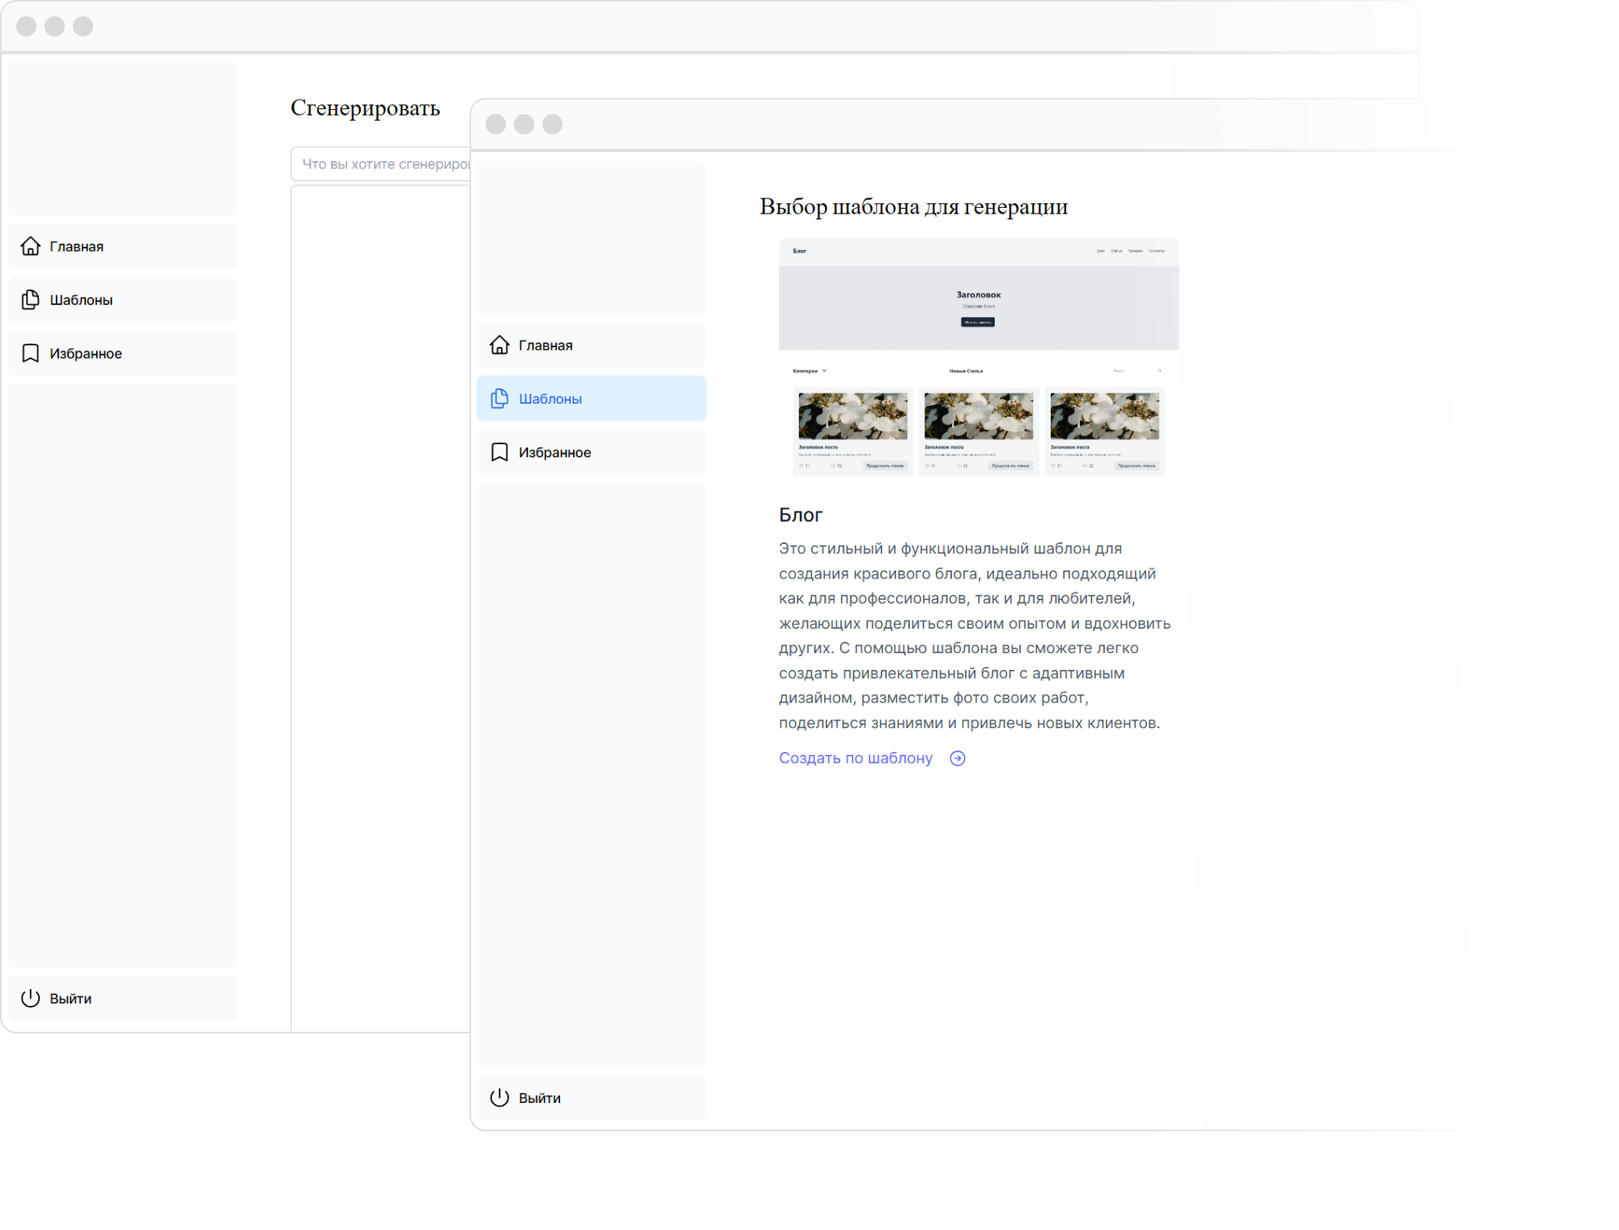
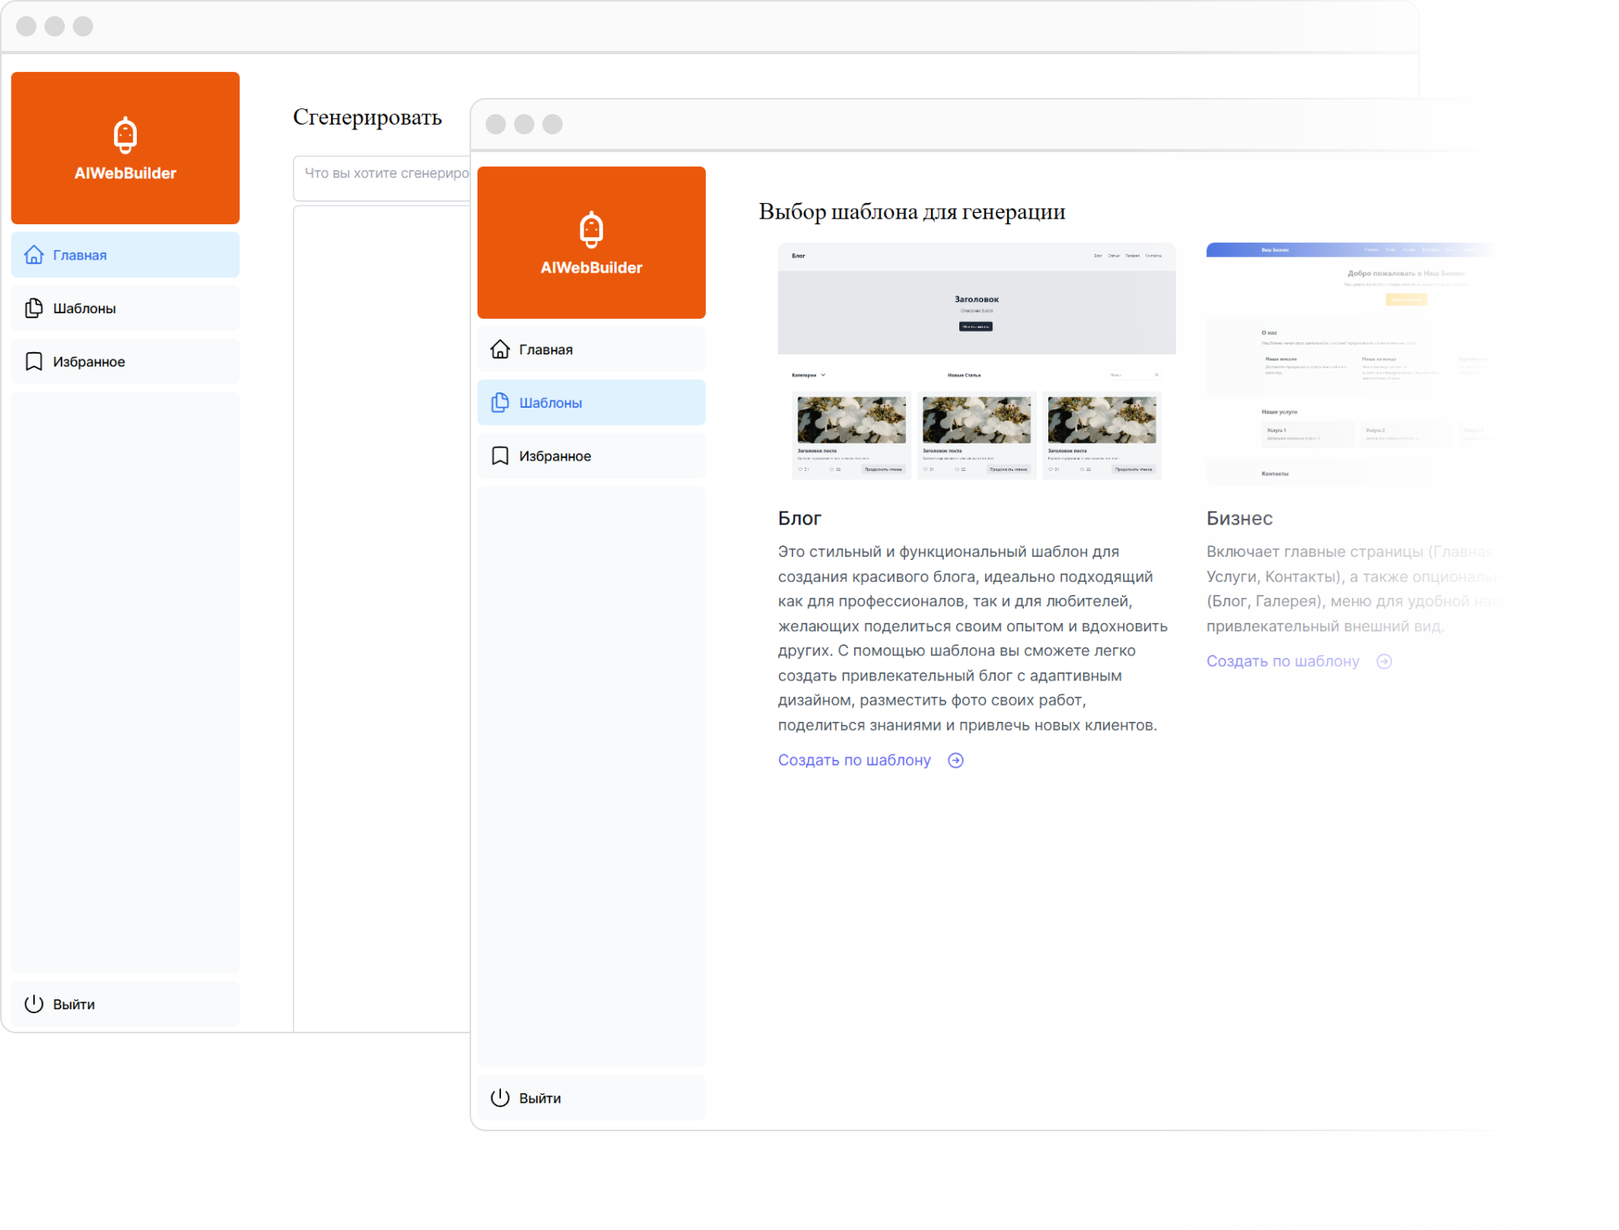
Add new image

diff --git a/app/ui/template/business.html b/app/ui/template/business.html
@@ -1,0 +1,185 @@
+<!DOCTYPE html>
+<html lang="ru">
+<head>
+    <meta charset="UTF-8">
+    <meta name="viewport" content="width=device-width, initial-scale=1.0">
+    <title>Бизнес Лендлинг Пейдж</title>
+    <link href="https://cdn.jsdelivr.net/npm/tailwindcss@2.2.19/dist/tailwind.min.css" rel="stylesheet">
+</head>
+<body class="font-sans bg-gray-100">
+
+    <!-- Navbar -->
+    <nav class="bg-blue-700 shadow-lg">
+        <div class="max-w-7xl mx-auto px-4 sm:px-6 lg:px-8">
+            <div class="flex justify-between items-center h-16">
+                <div class="flex-shrink-0">
+                    <a href="#" class="text-xl font-bold text-white">Ваш Бизнес</a>
+                </div>
+                <div class="hidden md:flex md:items-center md:justify-center md:flex-1">
+                    <a href="#home" class="text-white hover:text-yellow-400 mx-4">Главная</a>
+                    <a href="#about" class="text-white hover:text-yellow-400 mx-4">О нас</a>
+                    <a href="#services" class="text-white hover:text-yellow-400 mx-4">Услуги</a>
+                    <a href="#contact" class="text-white hover:text-yellow-400 mx-4">Контакты</a>
+                    <a href="#blog" class="text-white hover:text-yellow-400 mx-4">Блог</a>
+                    <a href="#gallery" class="text-white hover:text-yellow-400 mx-4">Галерея</a>
+                </div>
+            </div>
+        </div>
+    </nav>
+
+    <!-- Главная -->
+    <section id="home" class="bg-white py-12">
+        <div class="max-w-7xl mx-auto px-4 sm:px-6 lg:px-8">
+            <div class="text-center">
+                <h1 class="text-3xl font-bold text-gray-900">Добро пожаловать в Наш Бизнес</h1>
+                <p class="mt-4 text-lg text-gray-600">Мы ценим качество и совершенство в каждом нашем сервисе.</p>
+                <div class="mt-6">
+                    <a href="#services" class="inline-block px-6 py-3 bg-yellow-400 text-white font-medium text-lg rounded-md hover:bg-yellow-500">Узнать больше</a>
+                </div>
+            </div>
+        </div>
+    </section>
+
+    <!-- О нас -->
+    <section id="about" class="bg-gray-50 py-12">
+        <div class="max-w-7xl mx-auto px-4 sm:px-6 lg:px-8">
+            <h2 class="text-2xl font-bold text-gray-900">О нас</h2>
+            <p class="mt-4 text-gray-600">Наш бизнес начал свою деятельность с миссией предоставлять исключительные услуги...</p>
+            <div class="mt-6 flex flex-wrap">
+                <div class="w-full md:w-1/2 lg:w-1/3 px-4 py-4">
+                    <h3 class="text-xl font-bold text-gray-900">Наша миссия</h3>
+                    <p class="mt-2 text-gray-600">Доставлять продукцию и услуги высочайшего качества...</p>
+                </div>
+                <div class="w-full md:w-1/2 lg:w-1/3 px-4 py-4">
+                    <h3 class="text-xl font-bold text-gray-900">Наша команда</h3>
+                    <p class="mt-2 text-gray-600">Наша команда состоит из высококвалифицированных специалистов с многолетним опытом...</p>
+                </div>
+                <div class="w-full md:w-1/2 lg:w-1/3 px-4 py-4">
+                    <h3 class="text-xl font-bold text-gray-900">Сертификаты</h3>
+                    <p class="mt-2 text-gray-600">Мы сертифицированы ведущими отраслевыми стандартами...</p>
+                </div>
+            </div>
+        </div>
+    </section>
+
+    <!-- Услуги -->
+    <section id="services" class="bg-white py-12">
+        <div class="max-w-7xl mx-auto px-4 sm:px-6 lg:px-8">
+            <h2 class="text-2xl font-bold text-gray-900">Наши услуги</h2>
+            <div class="mt-6 grid grid-cols-1 sm:grid-cols-2 lg:grid-cols-3 gap-6">
+                <div class="bg-gray-100 p-6 rounded-lg shadow-md">
+                    <h3 class="text-xl font-bold text-gray-900">Услуга 1</h3>
+                    <p class="mt-2 text-gray-600">Детальное описание Услуги 1...</p>
+                </div>
+                <div class="bg-gray-100 p-6 rounded-lg shadow-md">
+                    <h3 class="text-xl font-bold text-gray-900">Услуга 2</h3>
+                    <p class="mt-2 text-gray-600">Детальное описание Услуги 2...</p>
+                </div>
+                <div class="bg-gray-100 p-6 rounded-lg shadow-md">
+                    <h3 class="text-xl font-bold text-gray-900">Услуга 3</h3>
+                    <p class="mt-2 text-gray-600">Детальное описание Услуги 3...</p>
+                </div>
+            </div>
+        </div>
+    </section>
+
+    <!-- Контакты -->
+    <section id="contact" class="bg-gray-50 py-12">
+        <div class="max-w-7xl mx-auto px-4 sm:px-6 lg:px-8">
+            <h2 class="text-2xl font-bold text-gray-900">Контакты</h2>
+            <div class="mt-6 flex flex-wrap">
+                <div class="w-full md:w-1/2 lg:w-1/3 px-4 py-4">
+                    <h3 class="text-lg font-bold text-gray-900">Адрес</h3>
+                    <p class="mt-2 text-gray-600">123 Улица Бизнеса, Город, Страна</p>
+                </div>
+                <div class="w-full md:w-1/2 lg:w-1/3 px-4 py-4">
+                    <h3 class="text-lg font-bold text-gray-900">Телефон</h3>
+                    <p class="mt-2 text-gray-600">+123 456 7890</p>
+                </div>
+                <div class="w-full md:w-1/2 lg:w-1/3 px-4 py-4">
+                    <h3 class="text-lg font-bold text-gray-900">Электронная почта</h3>
+                    <p class="mt-2 text-gray-600">info@yourbusiness.com</p>
+                </div>
+            </div>
+            <div class="mt-6">
+                <form action="#" method="POST" class="bg-white p-6 rounded-lg shadow-md">
+                    <div class="grid grid-cols-1 sm:grid-cols-2 gap-6">
+                        <div>
+                            <label for="name" class="block text-gray-700">Имя</label>
+                            <input type="text" id="name" name="name" class="mt-1 block w-full border-gray-300 rounded-md shadow-sm">
+                        </div>
+                        <div>
+                            <label for="email" class="block text-gray-700">Электронная почта</label>
+                            <input type="email" id="email" name="email" class="mt-1 block w-full border-gray-300 rounded-md shadow-sm">
+                        </div>
+                    </div>
+                    <div class="mt-6">
+                        <label for="message" class="block text-gray-700">Сообщение</label>
+                        <textarea id="message" name="message" rows="4" class="mt-1 block w-full border-gray-300 rounded-md shadow-sm"></textarea>
+                    </div>
+                    <div class="mt-6">
+                        <button type="submit" class="px-6 py-2 bg-blue-700 text-white font-medium rounded-md hover:bg-blue-800">Отправить</button>
+                    </div>
+                </form>
+            </div>
+        </div>
+    </section>
+
+    <!-- Блог -->
+    <section id="blog" class="bg-white py-12">
+        <div class="max-w-7xl mx-auto px-4 sm:px-6 lg:px-8">
+            <h2 class="text-2xl font-bold text-gray-900">Блог & Новости</h2>
+            <div class="mt-6 grid grid-cols-1 sm:grid-cols-2 lg:grid-cols-3 gap-6">
+                <div class="bg-gray-100 p-6 rounded-lg shadow-md">
+                    <h3 class="text-xl font-bold text-gray-900">Пост в блоге 1</h3>
+                    <p class="mt-2 text-gray-600">Краткое содержание поста в блоге 1...</p>
+                    <a href="#" class="mt-4 inline-block text-blue-700 hover:underline">Читать далее</a>
+                </div>
+                <div class="bg-gray-100 p-6 rounded-lg shadow-md">
+                    <h3 class="text-xl font-bold text-gray-900">Пост в блоге 2</h3>
+                    <p class="mt-2 text-gray-600">Краткое содержание поста в блоге 2...</p>
+                    <a href="#" class="mt-4 inline-block text-blue-700 hover:underline">Читать далее</a>
+                </div>
+                <div class="bg-gray-100 p-6 rounded-lg shadow-md">
+                    <h3 class="text-xl font-bold text-gray-900">Пост в блоге 3</h3>
+                    <p class="mt-2 text-gray-600">Краткое содержание поста в блоге 3...</p>
+                    <a href="#" class="mt-4 inline-block text-blue-700 hover:underline">Читать далее</a>
+                </div>
+            </div>
+        </div>
+    </section>
+
+    <!-- Галерея -->
+    <section id="gallery" class="bg-gray-50 py-12">
+        <div class="max-w-7xl mx-auto px-4 sm:px-6 lg:px-8">
+            <h2 class="text-2xl font-bold text-gray-900">Галерея</h2>
+            <div class="mt-6 grid grid-cols-1 sm:grid-cols-2 lg:grid-cols-3 gap-6">
+                <div class="bg-white p-6 rounded-lg shadow-md">
+                    <img src="https://via.placeholder.com/400" alt="Изображение 1" class="w-full h-64 object-cover rounded-md">
+                </div>
+                <div class="bg-white p-6 rounded-lg shadow-md">
+                    <img src="https://via.placeholder.com/400" alt="Изображение 2" class="w-full h-64 object-cover rounded-md">
+                </div>
+                <div class="bg-white p-6 rounded-lg shadow-md">
+                    <img src="https://via.placeholder.com/400" alt="Изображение 3" class="w-full h-64 object-cover rounded-md">
+                </div>
+            </div>
+        </div>
+    </section>
+
+    <!-- Footer -->
+    <footer class="bg-blue-900 text-white py-8">
+        <div class="max-w-7xl mx-auto px-4 sm:px-6 lg:px-8">
+            <div class="flex justify-between items-center">
+                <div class="text-sm">&copy; 2024 Ваш Бизнес. Все права защищены.</div>
+                <div class="flex space-x-6">
+                    <a href="#" class="hover:text-yellow-400">Facebook</a>
+                    <a href="#" class="hover:text-yellow-400">Twitter</a>
+                    <a href="#" class="hover:text-yellow-400">LinkedIn</a>
+                </div>
+            </div>
+        </div>
+    </footer>
+
+</body>
+</html>

diff --git a/app/ui/template/prompt-input.tsx b/app/ui/template/prompt-input.tsx
@@ -4,7 +4,7 @@ import { useState, } from 'react';
 
 
 
-export default function PromptBlog({ placeholder }: { placeholder: string }) {
+export default function Prompt({ placeholder }: { placeholder: string }) {
   
   const genAI = new GoogleGenerativeAI("AIzaSyBEN1pF8pt94fSkVyY1Ug7XC_rGPRNM2fU");
   const [promptText, setPromptText] = useState<string>(''); // Состояние для текста в основной textarea
@@ -68,39 +68,39 @@ export default function PromptBlog({ placeholder }: { placeholder: string }) {
       <div className="flex flex-row flex-nowrap gap-4">
   <div className="basis-4/5">
   <textarea
-        className=" block w-full rounded-md border-0 py-1.5 text-gray-900 shadow-sm ring-1 ring-inset ring-gray-300 placeholder:text-gray-400 focus:ring-2 focus:ring-inset focus:ring-indigo-600 sm:text-sm sm:leading-6"
-        placeholder={placeholder}
-        rows={1}
-        value={promptText}
-        onChange={(e) => setPromptText(e.target.value)}
-      ></textarea>
+  className="block w-full h-12 rounded-md border-0 py-1.5 text-gray-900 shadow-sm ring-1 ring-inset ring-gray-300 placeholder:text-gray-400 focus:ring-2 focus:ring-inset focus:ring-indigo-600 sm:text-sm sm:leading-6"
+  placeholder={placeholder}
+  value={promptText}
+  onChange={(e) => setPromptText(e.target.value)}
+></textarea>
+
     </div>
-  <div className="basis-1/4">
+  <div className="basis-1">
   <button
-  className="min-height:60px block w-full rounded-md border-0 py-1.5 text-gray-900 shadow-sm ring-1 ring-inset ring-gray-300 placeholder:text-gray-400 focus:ring-2 focus:ring-inset focus:ring-indigo-600 sm:text-sm sm:leading-6"
+  className="flex items-center gap-5 self-start rounded-lg bg-orange-600 px-6 py-3 text-sm font-medium text-white transition-colors hover:bg-orange-400 md:text-base"
   onClick={() => run("Создай сайт на русском языке с использованием HTML и tilwindcss. Сайт должен содержать следующие элементы:Хедер с логотипом и навигацией.Футер с контактной информацией и ссылками на социальные сети. Основной контент, включающий текстовую информацию и изображения. Страница должна быть адаптивной и хорошо выглядеть как на десктопе, так и на мобильных устройствах. Убедитесь, что сайт соответствует принципам юзабилити Нильсена." + promptText)}
 >
   Сгенерировать
 </button>
 </div>
-<div className="basis-1/40">
+<div className="basis-1">
 <button
-            className="min-height:60px block w-full rounded-md border-0 py-1.5 text-gray-900 shadow-sm ring-1 ring-inset ring-gray-300 placeholder:text-gray-400 focus:ring-2 focus:ring-inset focus:ring-indigo-600 sm:text-sm sm:leading-6"
-            onClick={toggleHtmlInputVisibility}
-            
-          >
-            {isHtmlInputVisible ? (
-              <svg xmlns="http://www.w3.org/2000/svg" className="h-6 w-6" fill="none" viewBox="0 0 24 24" stroke="currentColor">
-                <path strokeLinecap="round" strokeLinejoin="round" strokeWidth="2" d="M6 18L18 6M6 6l12 12" />
-              </svg>
-            ) : (
-              <svg xmlns="http://www.w3.org/2000/svg" className="h-6 w-6" fill="none" viewBox="0 0 24 24" stroke="currentColor">
-                <path strokeLinecap="round" strokeLinejoin="round" strokeWidth="2" d="M20 12H4" />
-              </svg>
-            )}
-          </button>
-          </div>      
-    </div>
+  className="flex items-center justify-center gap-2 self-start rounded-lg bg-orange-600 px-6 py-3 text-sm font-medium text-white transition-colors hover:bg-orange-400 md:text-base whitespace-nowrap"
+  onClick={toggleHtmlInputVisibility}
+>
+  <p>{isHtmlInputVisible ? "Скрыть код" : "Показать код"}</p>
+</button>
+
+
+
+          </div>
+          <div className="basis-1">
+          <button className="flex items-center gap-5 self-start rounded-lg bg-orange-600 px-6 py-3 text-sm font-medium text-white transition-colors hover:bg-orange-400 md:text-base"
+ onClick={() => updateLivePreviewInNewWindow(previewText.replace(/^```html\n/, '').replace(/```$/, ''))}>Открыть</button>
+         </div>
+          
+          </div>  
+
           
       </div>
       <div>
@@ -124,10 +124,6 @@ export default function PromptBlog({ placeholder }: { placeholder: string }) {
               className={`block w-full h-screen rounded-md border-0 py-1.5 text-gray-900 shadow-sm ring-1 ring-inset ring-gray-300 placeholder:text-gray-400 focus:ring-2 focus:ring-inset focus:ring-indigo-600 sm:text-sm sm:leading-6`}
             />
           </div>
-          <button className="min-height:60px block w-full rounded-md border-0 py-1.5 text-gray-900 shadow-sm ring-1 ring-inset ring-gray-300 placeholder:text-gray-400 focus:ring-2 focus:ring-inset focus:ring-indigo-600 sm:text-sm sm:leading-6"
- onClick={() => updateLivePreviewInNewWindow(previewText.replace(/^```html\n/, '').replace(/```$/, ''))}>Открыть в новом окне</button>
-
-
     </div>
       </div>
     </div>

diff --git a/app/home/template/page.tsx b/app/home/template/page.tsx
@@ -2,7 +2,7 @@
 
 import { useState } from 'react';
 import Image from 'next/image';
-import { CreateTemplateBase, CreateTemplateBlog } from '@/app/ui/template/button';
+import { CreateTemplateBusiness, CreateTemplateBlog } from '@/app/ui/template/button';
 import { lusitana } from '@/app/ui/fonts';
 
 export default function Template() {
@@ -34,6 +34,21 @@ export default function Template() {
               <h2 className="text-xl font-medium title-font text-gray-900 mt-5">Блог</h2>
               <p className="text-base leading-relaxed mt-2">Это стильный и функциональный шаблон для создания красивого блога, идеально подходящий как для профессионалов, так и для любителей, желающих поделиться своим опытом и вдохновить других.
 С помощью шаблона вы сможете легко создать привлекательный блог с адаптивным дизайном, разместить фото своих работ, поделиться знаниями и привлечь новых клиентов.</p>
+              <CreateTemplateBlog />
+            </div>
+
+            <div className="p-4 md:w-1/3 sm:mb-0 mb-6">
+              <div className="rounded-lg h-64 overflow-hidden">
+              <Image
+      src="/buisness.png"
+      alt="content"
+      className="object-cover object-center h-full w-full"
+      width={2115} 
+      height={1266} 
+    />
+              </div>
+              <h2 className="text-xl font-medium title-font text-gray-900 mt-5">Бизнес</h2>
+              <p className="text-base leading-relaxed mt-2">Включает главные страницы (Главная, О нас, Услуги, Контакты), а также опциональные разделы (Блог, Галерея), меню для удобной навигации и привлекательный внешний вид.</p>
               <CreateTemplateBlog />
             </div>
             

diff --git a/app/ui/template/button.tsx b/app/ui/template/button.tsx
@@ -1,10 +1,10 @@
 import { ArrowRightCircleIcon, PencilIcon, PlusIcon, TrashIcon } from '@heroicons/react/24/outline';
 import Link from 'next/link';
 
-export function CreateTemplateBase() {
+export function CreateTemplateBusiness() {
   return (
     <Link
-      href="/home/template/base"
+      href="/home/template/business"
      className="text-indigo-500 inline-flex items-center cursor-pointer mt-3">
       <span className="hidden md:block">Создать по шаблону</span>{' '}
       <ArrowRightCircleIcon className="h-5 md:ml-4" />

diff --git a/app/home/template/business/page.tsx b/app/home/template/business/page.tsx
@@ -15,8 +15,8 @@ export default async function Page() {
         breadcrumbs={[
           { label: 'Шаблоны', href: '/home/template' },
           {
-            label: 'Base',
-            href: '/home/template/base',
+            label: 'Бизнес',
+            href: '/home/template/business',
             active: true,
           },
         ]}

diff --git a/app/home/(overview)/page.tsx b/app/home/(overview)/page.tsx
@@ -4,7 +4,7 @@ import { Metadata } from 'next';
 import Prompt from '@/app/ui/prompt-input';
  
 export const metadata: Metadata = {
-  title: 'Generate',
+  title: 'AIWebBuilder',
 };
 export default async function Page() {
 
